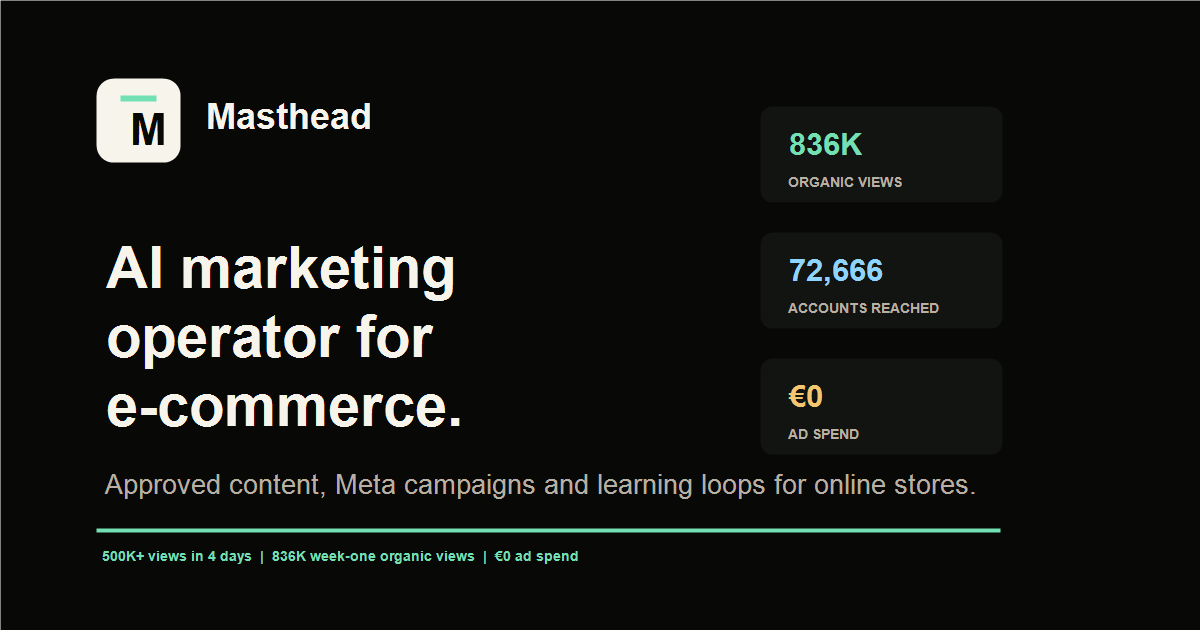
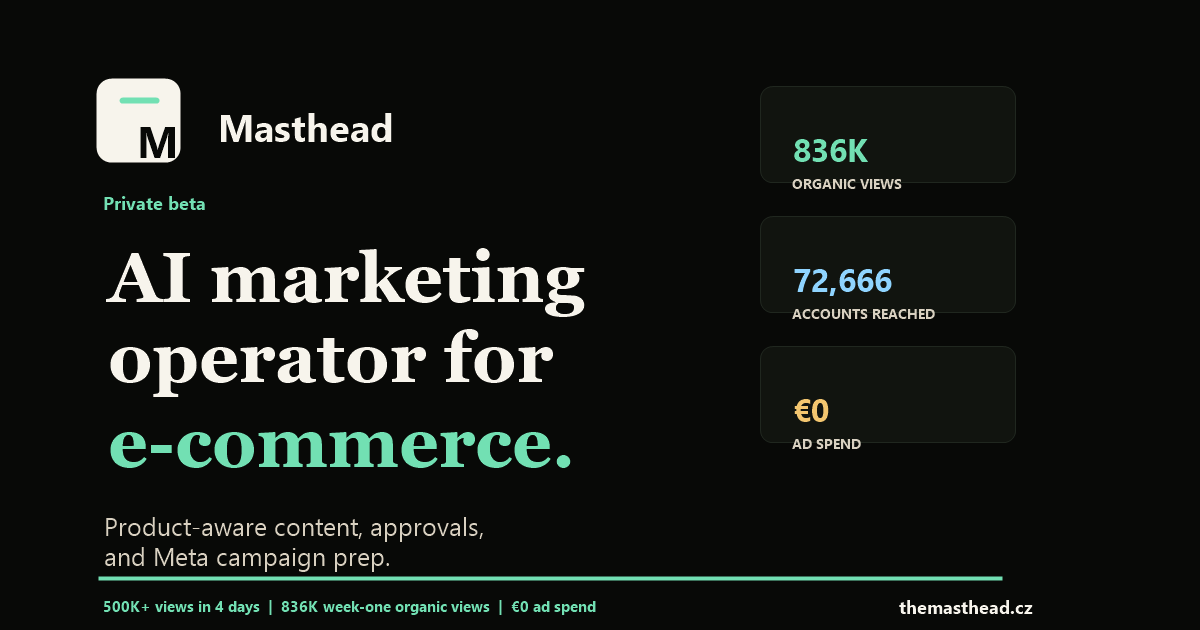
Improve SEO social preview and pilot messaging

diff --git a/index.html b/index.html
@@ -4,27 +4,69 @@
   <meta charset="UTF-8" />
   <meta name="viewport" content="width=device-width, initial-scale=1.0" />
   <meta name="theme-color" content="#080907" />
+  <meta name="robots" content="index, follow, max-image-preview:large" />
+  <meta name="application-name" content="Masthead" />
+  <meta name="author" content="Masthead" />
 
   <title>Masthead - AI marketing operator for e-commerce</title>
-  <meta name="description" content="Masthead connects to your store, understands inventory, creates organic posts and ads, routes them through approval, publishes through Meta, and learns from performance." />
+  <meta name="description" content="Masthead is a managed AI marketing operator for e-commerce pilots: product-aware content briefs, approved posts, Meta campaign prep and weekly learning loops." />
 
   <meta property="og:type" content="website" />
   <meta property="og:site_name" content="Masthead" />
   <meta property="og:title" content="Masthead - AI marketing operator for e-commerce" />
-  <meta property="og:description" content="A managed AI marketing operator that turns store inventory into approved content, Meta campaigns and weekly learning loops." />
-  <meta property="og:image" content="/og.png" />
+  <meta property="og:description" content="Managed AI marketing pilots for e-commerce: product-aware content, approval, Meta campaign prep and a learning loop for every run." />
+  <meta property="og:url" content="https://themasthead.cz/" />
+  <meta property="og:locale" content="en_US" />
+  <meta property="og:locale:alternate" content="cs_CZ" />
+  <meta property="og:image" content="https://themasthead.cz/og.png?v=4" />
+  <meta property="og:image:secure_url" content="https://themasthead.cz/og.png?v=4" />
+  <meta property="og:image:type" content="image/png" />
   <meta property="og:image:width" content="1200" />
   <meta property="og:image:height" content="630" />
-  <meta property="og:url" content="https://themasthead.cz" />
+  <meta property="og:image:alt" content="Masthead - AI marketing operator for e-commerce stores." />
 
   <meta name="twitter:card" content="summary_large_image" />
   <meta name="twitter:title" content="Masthead - AI marketing operator for e-commerce" />
-  <meta name="twitter:description" content="A managed AI marketing operator that turns store inventory into approved content, Meta campaigns and weekly learning loops." />
-  <meta name="twitter:image" content="/og.png" />
+  <meta name="twitter:description" content="Managed AI marketing pilots for e-commerce: product-aware content, approval, Meta campaign prep and a learning loop for every run." />
+  <meta name="twitter:image" content="https://themasthead.cz/og.png?v=4" />
+  <meta name="twitter:image:alt" content="Masthead - AI marketing operator for e-commerce stores." />
 
-  <link rel="canonical" href="https://themasthead.cz" />
+  <link rel="canonical" href="https://themasthead.cz/" />
+  <link rel="alternate" hreflang="en" href="https://themasthead.cz/" />
+  <link rel="alternate" hreflang="cs" href="https://themasthead.cz/?lang=cs" />
+  <link rel="alternate" hreflang="x-default" href="https://themasthead.cz/" />
   <link rel="icon" href="/favicon.svg" type="image/svg+xml" />
   <link rel="apple-touch-icon" href="/favicon.svg" />
+
+  <script type="application/ld+json">
+    {
+      "@context": "https://schema.org",
+      "@graph": [
+        {
+          "@type": "Organization",
+          "@id": "https://themasthead.cz/#organization",
+          "name": "Masthead",
+          "url": "https://themasthead.cz/",
+          "logo": "https://themasthead.cz/favicon.svg",
+          "founder": {
+            "@type": "Person",
+            "name": "Matyáš Kouřil"
+          }
+        },
+        {
+          "@type": "WebSite",
+          "@id": "https://themasthead.cz/#website",
+          "url": "https://themasthead.cz/",
+          "name": "Masthead",
+          "description": "Managed AI marketing pilots for e-commerce: product-aware content, approval, Meta campaign prep and a learning loop for every run.",
+          "publisher": {
+            "@id": "https://themasthead.cz/#organization"
+          },
+          "inLanguage": ["en", "cs"]
+        }
+      ]
+    }
+  </script>
 
   <link rel="preconnect" href="https://fonts.googleapis.com" />
   <link rel="preconnect" href="https://fonts.gstatic.com" crossorigin />
@@ -199,7 +241,11 @@
       margin-bottom: 24px;
     }
     .hero-status span { width: 8px; height: 8px; border-radius: 50%; background: var(--accent); }
-    .hero h1 span { color: var(--accent); }
+    .hero-title-line,
+    .hero-title-accent {
+      display: block;
+    }
+    .hero-title-accent { color: var(--accent); }
     .hero-lede {
       max-width: 660px;
       margin: 26px 0 34px;
@@ -466,8 +512,8 @@
       <div class="wrap">
         <div class="hero-copy">
           <div class="hero-status reveal"><span></span> <span data-i18n="heroStatus">Private beta for Shopify and Shoptet stores</span></div>
-          <h1 class="reveal" data-i18n-html="heroTitle">AI marketing operator for <span>e-commerce.</span></h1>
-          <p class="hero-lede reveal" data-i18n="heroLede">Masthead connects to a store, understands what should sell now, generates approved posts and ads, publishes through Meta, then learns from performance.</p>
+          <h1 class="reveal" data-i18n-html="heroTitle"><span class="hero-title-line">AI marketing</span><span class="hero-title-line">operator for</span><span class="hero-title-accent">e-commerce.</span></h1>
+          <p class="hero-lede reveal" data-i18n="heroLede">Masthead helps e-commerce teams turn product context into approved organic posts, campaign-ready creative and a learning loop for the next run.</p>
 
           <form class="waitlist reveal" id="waitlist-form" novalidate>
             <label for="email" class="sr-only" data-i18n="emailLabel">Email address</label>
@@ -525,45 +571,45 @@
       <div class="wrap">
         <div class="section-head">
           <div>
-            <span class="eyebrow reveal" data-i18n="operatorEyebrow">What it does</span>
-            <h2 class="reveal" data-i18n="operatorTitle">The work of a lean marketing team, running as software.</h2>
+            <span class="eyebrow reveal" data-i18n="operatorEyebrow">How pilots work</span>
+            <h2 class="reveal" data-i18n="operatorTitle">A managed content loop first. A software platform as the repeatable pieces harden.</h2>
           </div>
-          <p class="reveal" data-i18n="operatorIntro">The first pilots are hands-on by design: every store gets a tailored setup, approval stays controlled, and the system learns from real operating context.</p>
+          <p class="reveal" data-i18n="operatorIntro">Early pilots are deliberately hands-on: we map the store, prepare structured briefs, generate content options, keep approval controlled and turn each run into product learning.</p>
         </div>
         <div class="operator-grid">
           <article class="operator-card reveal">
             <div>
               <span class="num">01</span>
-              <h3 data-i18n="operatorCard1Title">Reads the store</h3>
-              <p data-i18n="operatorCard1Text">Catalog, stock, product priority, margins, blocked topics and brand voice live under one client profile.</p>
+              <h3 data-i18n="operatorCard1Title">Map the store</h3>
+              <p data-i18n="operatorCard1Text">Products, audience, current priorities, stock context, blocked topics and brand rules are captured before the first run.</p>
             </div>
           </article>
           <article class="operator-card reveal">
             <div>
               <span class="num">02</span>
-              <h3 data-i18n="operatorCard2Title">Chooses the angle</h3>
-              <p data-i18n="operatorCard2Text">Product spotlight, category guide, campaign offer, evergreen tips or news reaction. Not every business is a news feed.</p>
+              <h3 data-i18n="operatorCard2Title">Choose safe formats</h3>
+              <p data-i18n="operatorCard2Text">Product spotlights, category guides, campaign offers, evergreen tips or news-style posts are selected based on what the store can support.</p>
             </div>
           </article>
           <article class="operator-card reveal">
             <div>
               <span class="num">03</span>
-              <h3 data-i18n="operatorCard3Title">Creates the post</h3>
-              <p data-i18n="operatorCard3Text">Carousel structure, caption, CTA, image search and visual checks are generated from a structured brief.</p>
+              <h3 data-i18n="operatorCard3Title">Generate draft sets</h3>
+              <p data-i18n="operatorCard3Text">The app helps prepare carousel outlines, captions, CTAs and image direction from a structured brief, with manual QA during pilots.</p>
             </div>
           </article>
           <article class="operator-card reveal">
             <div>
               <span class="num">04</span>
-              <h3 data-i18n="operatorCard4Title">Routes approval</h3>
-              <p data-i18n="operatorCard4Text">Human approval stays in the loop before anything goes live. Pilots stay safe by default.</p>
+              <h3 data-i18n="operatorCard4Title">Approve before output</h3>
+              <p data-i18n="operatorCard4Text">Owners review the important decisions before anything is published or prepared for a campaign.</p>
             </div>
           </article>
           <article class="operator-card reveal">
             <div>
               <span class="num">05</span>
-              <h3 data-i18n="operatorCard5Title">Learns what works</h3>
-              <p data-i18n="operatorCard5Text">Every run becomes structured evidence for the next creative, campaign and store decision.</p>
+              <h3 data-i18n="operatorCard5Title">Record the learning</h3>
+              <p data-i18n="operatorCard5Text">Each run creates a short evidence log so the next batch is sharper and the future platform is built on real operating data.</p>
             </div>
           </article>
         </div>
@@ -700,14 +746,16 @@
     const TRANSLATIONS = {
       en: {
         metaTitle: "Masthead - AI marketing operator for e-commerce",
-        metaDescription: "Masthead connects to your store, understands inventory, creates organic posts and ads, routes them through approval, publishes through Meta, and learns from performance.",
+        metaDescription: "Masthead is a managed AI marketing operator for e-commerce pilots: product-aware content briefs, approved posts, Meta campaign prep and weekly learning loops.",
+        metaImageAlt: "Masthead - AI marketing operator for e-commerce stores.",
+        ogLocale: "en_US",
         navProof: "Proof",
         navOperator: "Operator",
         navRoadmap: "Roadmap",
         navCta: "Join beta",
         heroStatus: "Private beta for Shopify and Shoptet stores",
-        heroTitle: "AI marketing operator for <span>e-commerce.</span>",
-        heroLede: "Masthead connects to a store, understands what should sell now, generates approved posts and ads, publishes through Meta, then learns from performance.",
+        heroTitle: "<span class=\"hero-title-line\">AI marketing</span><span class=\"hero-title-line\">operator for</span><span class=\"hero-title-accent\">e-commerce.</span>",
+        heroLede: "Masthead helps e-commerce teams turn product context into approved organic posts, campaign-ready creative and a learning loop for the next run.",
         emailLabel: "Email address",
         emailPlaceholder: "[email redacted]",
         heroButton: "Request access",
@@ -727,19 +775,19 @@
         proofInteractionsNote: "likes, saves, shares",
         proofPaidLabel: "Paid media",
         proofPaidNote: "organic test account",
-        operatorEyebrow: "What it does",
-        operatorTitle: "The work of a lean marketing team, running as software.",
-        operatorIntro: "The first pilots are hands-on by design: every store gets a tailored setup, approval stays controlled, and the system learns from real operating context.",
-        operatorCard1Title: "Reads the store",
-        operatorCard1Text: "Catalog, stock, product priority, margins, blocked topics and brand voice live under one client profile.",
-        operatorCard2Title: "Chooses the angle",
-        operatorCard2Text: "Product spotlight, category guide, campaign offer, evergreen tips or news reaction. Not every business is a news feed.",
-        operatorCard3Title: "Creates the post",
-        operatorCard3Text: "Carousel structure, caption, CTA, image search and visual checks are generated from a structured brief.",
-        operatorCard4Title: "Routes approval",
-        operatorCard4Text: "Human approval stays in the loop before anything goes live. Pilots stay safe by default.",
-        operatorCard5Title: "Learns what works",
-        operatorCard5Text: "Every run becomes structured evidence for the next creative, campaign and store decision.",
+        operatorEyebrow: "How pilots work",
+        operatorTitle: "A managed content loop first. A software platform as the repeatable pieces harden.",
+        operatorIntro: "Early pilots are deliberately hands-on: we map the store, prepare structured briefs, generate content options, keep approval controlled and turn each run into product learning.",
+        operatorCard1Title: "Map the store",
+        operatorCard1Text: "Products, audience, current priorities, stock context, blocked topics and brand rules are captured before the first run.",
+        operatorCard2Title: "Choose safe formats",
+        operatorCard2Text: "Product spotlights, category guides, campaign offers, evergreen tips or news-style posts are selected based on what the store can support.",
+        operatorCard3Title: "Generate draft sets",
+        operatorCard3Text: "The app helps prepare carousel outlines, captions, CTAs and image direction from a structured brief, with manual QA during pilots.",
+        operatorCard4Title: "Approve before output",
+        operatorCard4Text: "Owners review the important decisions before anything is published or prepared for a campaign.",
+        operatorCard5Title: "Record the learning",
+        operatorCard5Text: "Each run creates a short evidence log so the next batch is sharper and the future platform is built on real operating data.",
         whyEyebrow: "Why this matters",
         whyTitle: "Most e-commerce stores do not need more tools. They need execution.",
         whyBullet1Title: "Agencies are expensive and slow.",
@@ -785,14 +833,16 @@
       },
       cs: {
         metaTitle: "Masthead - AI marketing operator pro e-commerce",
-        metaDescription: "Masthead se napojí na e-shop, rozumí produktům a skladu, tvoří organické posty i reklamy, posílá je ke schválení, publikuje přes Meta a učí se z výsledků.",
+        metaDescription: "Masthead je řízený AI marketing operator pro e-commerce piloty: produktové briefy, schválené posty, příprava Meta kampaní a týdenní learning loop.",
+        metaImageAlt: "Masthead - AI marketing operator pro e-commerce.",
+        ogLocale: "cs_CZ",
         navProof: "Výsledky",
         navOperator: "Operator",
         navRoadmap: "Roadmapa",
         navCta: "Do bety",
         heroStatus: "Privátní beta pro Shopify a Shoptet e-shopy",
-        heroTitle: "AI marketing operator pro <span>e-commerce.</span>",
-        heroLede: "Masthead se napojí na e-shop, pochopí co má zrovna prodávat, vytvoří schválené posty a reklamy, publikuje přes Meta a učí se z výkonu.",
+        heroTitle: "<span class=\"hero-title-line\">AI marketing</span><span class=\"hero-title-line\">operator pro</span><span class=\"hero-title-accent\">e-commerce.</span>",
+        heroLede: "Masthead pomáhá e-commerce týmům měnit produktový kontext na schválené organické posty, kreativu připravenou pro kampaně a learning loop pro další run.",
         emailLabel: "E-mailová adresa",
         emailPlaceholder: "[email redacted]",
         heroButton: "Požádat o přístup",
@@ -812,19 +862,19 @@
         proofInteractionsNote: "lajky, uložení, sdílení",
         proofPaidLabel: "Placená média",
         proofPaidNote: "interní testovací účet",
-        operatorEyebrow: "Co dělá",
-        operatorTitle: "Práce štíhlého marketingového týmu, běžící jako software.",
-        operatorIntro: "První piloty jsou záměrně hands-on: každý e-shop dostane vlastní nastavení, schvalování zůstává pod kontrolou a systém se učí z reálného provozu.",
-        operatorCard1Title: "Čte e-shop",
-        operatorCard1Text: "Katalog, sklad, priorita produktů, marže, zakázaná témata a tone of voice žijí v jednom klientském profilu.",
-        operatorCard2Title: "Volí úhel",
-        operatorCard2Text: "Produktový spotlight, průvodce kategorií, kampaňová nabídka, evergreen tipy nebo reakce na novinky. Ne každá firma je news feed.",
-        operatorCard3Title: "Tvoří post",
-        operatorCard3Text: "Struktura carouselu, caption, CTA, hledání obrázků a vizuální kontroly vznikají ze strukturovaného briefu.",
-        operatorCard4Title: "Řeší schválení",
-        operatorCard4Text: "Člověk zůstává ve smyčce před tím, než cokoliv vyjde ven. Piloty jsou bezpečné by default.",
-        operatorCard5Title: "Učí se z výkonu",
-        operatorCard5Text: "Každý run se mění ve strukturovaný důkaz pro další kreativu, kampaň a obchodní rozhodnutí.",
+        operatorEyebrow: "Jak pilot funguje",
+        operatorTitle: "Nejdřív řízený content loop. Software až ve chvíli, kdy se opakovatelné části potvrdí.",
+        operatorIntro: "První piloty jsou záměrně hands-on: mapujeme e-shop, připravujeme strukturované briefy, generujeme varianty obsahu, držíme schválení pod kontrolou a každý run měníme v produktové učení.",
+        operatorCard1Title: "Zmapujeme e-shop",
+        operatorCard1Text: "Produkty, publikum, aktuální priority, skladový kontext, zakázaná témata a pravidla značky zachytíme ještě před prvním runem.",
+        operatorCard2Title: "Vybereme bezpečné formáty",
+        operatorCard2Text: "Produktový spotlight, průvodce kategorií, kampaňová nabídka, evergreen tipy nebo news-style posty volíme podle toho, co e-shop skutečně unese.",
+        operatorCard3Title: "Připravíme návrhy",
+        operatorCard3Text: "Aplikace pomáhá připravit osnovy carouselů, captiony, CTA a směr vizuálu ze strukturovaného briefu, v pilotech s ruční QA.",
+        operatorCard4Title: "Schválíme výstup",
+        operatorCard4Text: "Majitel nebo tým zkontroluje důležitá rozhodnutí před tím, než se cokoliv publikuje nebo připraví do kampaně.",
+        operatorCard5Title: "Zapíšeme learning",
+        operatorCard5Text: "Každý run vytvoří krátký evidence log, aby další várka byla ostřejší a budoucí platforma stála na reálných provozních datech.",
         whyEyebrow: "Proč na tom záleží",
         whyTitle: "Většina e-shopů nepotřebuje další nástroj. Potřebuje exekuci.",
         whyBullet1Title: "Agentury jsou drahé a pomalé.",
@@ -872,7 +922,18 @@
 
     let currentLanguage = "en";
 
-    function applyLanguage(language) {
+    function updateLanguageUrl(lang) {
+      if (!window.history || !window.URL) return;
+      const url = new URL(window.location.href);
+      if (lang === "cs") {
+        url.searchParams.set("lang", "cs");
+      } else {
+        url.searchParams.delete("lang");
+      }
+      window.history.replaceState({}, "", url);
+    }
+
+    function applyLanguage(language, updateUrl = false) {
       const lang = TRANSLATIONS[language] ? language : "en";
       currentLanguage = lang;
       const dict = TRANSLATIONS[lang];
@@ -881,8 +942,12 @@
       document.querySelector('meta[name="description"]')?.setAttribute("content", dict.metaDescription);
       document.querySelector('meta[property="og:title"]')?.setAttribute("content", dict.metaTitle);
       document.querySelector('meta[property="og:description"]')?.setAttribute("content", dict.metaDescription);
+      document.querySelector('meta[property="og:locale"]')?.setAttribute("content", dict.ogLocale);
+      document.querySelector('meta[property="og:image:alt"]')?.setAttribute("content", dict.metaImageAlt);
       document.querySelector('meta[name="twitter:title"]')?.setAttribute("content", dict.metaTitle);
       document.querySelector('meta[name="twitter:description"]')?.setAttribute("content", dict.metaDescription);
+      document.querySelector('meta[name="twitter:image:alt"]')?.setAttribute("content", dict.metaImageAlt);
+      if (updateUrl) updateLanguageUrl(lang);
 
       document.querySelectorAll("[data-i18n]").forEach((node) => {
         const key = node.getAttribute("data-i18n");
@@ -901,11 +966,6 @@
         button.classList.toggle("is-active", active);
         button.setAttribute("aria-pressed", String(active));
       });
-      try {
-        window.localStorage.setItem("masthead-language", lang);
-      } catch (error) {
-        // Language persistence is a convenience only.
-      }
     }
 
     const nav = document.getElementById("nav");
@@ -930,15 +990,10 @@
     });
 
     document.querySelectorAll("[data-lang-switch]").forEach((button) => {
-      button.addEventListener("click", () => applyLanguage(button.getAttribute("data-lang-switch")));
+      button.addEventListener("click", () => applyLanguage(button.getAttribute("data-lang-switch"), true));
     });
 
-    let initialLanguage = "en";
-    try {
-      initialLanguage = window.localStorage.getItem("masthead-language") || "en";
-    } catch (error) {
-      initialLanguage = "en";
-    }
+    const initialLanguage = new URLSearchParams(window.location.search).get("lang") === "cs" ? "cs" : "en";
     applyLanguage(initialLanguage);
 
     const EMAIL_RE = /^[^\s@]+@[^\s@]+\.[^\s@]+$/;